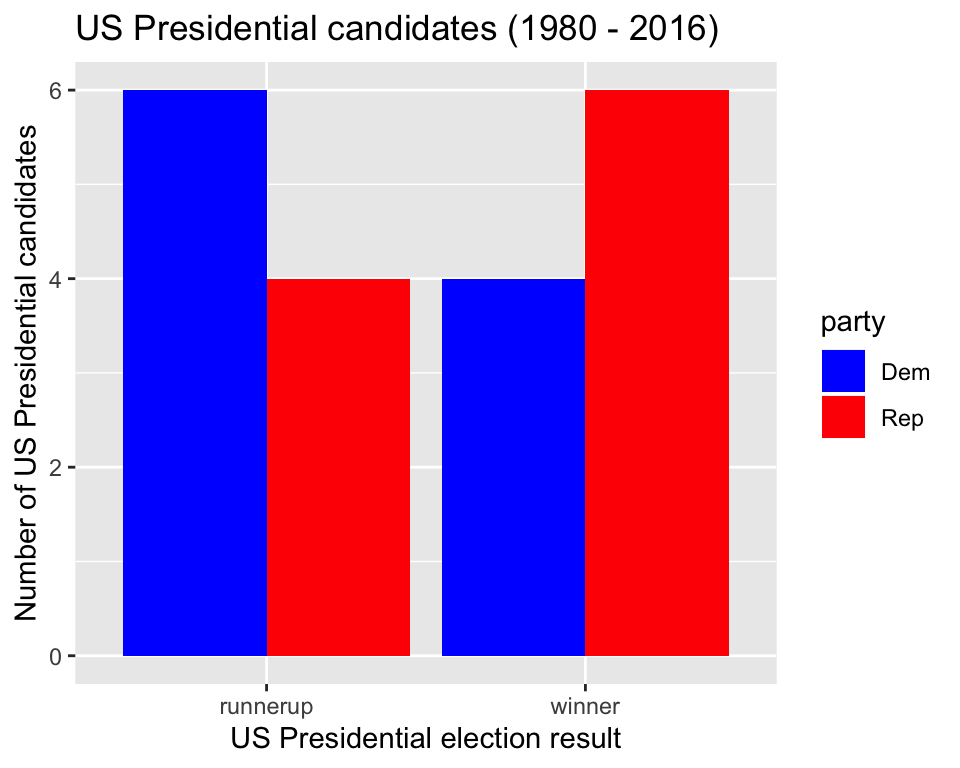
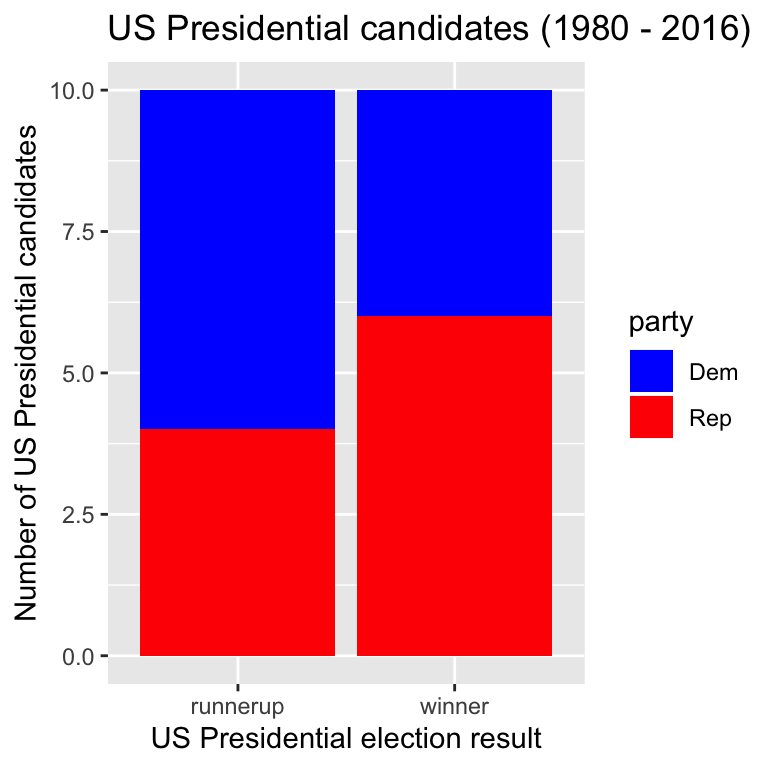
remainder of edits in #26

diff --git a/docs/wrangling.html b/docs/wrangling.html
@@ -416,10 +416,8 @@ project, it is well worth spending the time to get your data into a tidy format 
 </div>
 <div id="going-from-wide-to-long-or-tidy-using-gather" class="section level3">
 <h3><span class="header-section-number">3.4.3</span> Going from wide to long (or tidy!) using <code>gather</code></h3>
-<p>One common thing that often has to be done to get data into a tidy format is to gather columns so that each row is a single
-observation and each column is a single variable. Oftentimes, data does not come this way; while tidy data is a better
-organization structure for data analysis, it is not as intuitive for human readability and understanding. For example, the
-data below is not in a tidy format, but rather is in a very intuitive format for human understanding:</p>
+<p>One common thing that often has to be done to get data into a tidy format is to combine columns that are really part the same variable but currently stored in separate columns. To do this we can use the function <code>gather</code>. <code>gather</code> acts to combine columns, and thus makes the data frame narrower.</p>
+<p>Data is often stored in a wider, not tidy, format because this format is often more intuitive for human readability and understanding, and humans create data sets. An example of this is shown below:</p>
 <div class="sourceCode" id="cb1"><pre class="sourceCode r"><code class="sourceCode r"><a class="sourceLine" id="cb1-1" data-line-number="1"><span class="kw">library</span>(tidyverse)</a>
 <a class="sourceLine" id="cb1-2" data-line-number="2">hist_vote_wide &lt;-<span class="st"> </span><span class="kw">read_csv</span>(<span class="st">&quot;data/historical_vote_wide.csv&quot;</span>)</a>
 <a class="sourceLine" id="cb1-3" data-line-number="3">hist_vote_wide</a></code></pre></div>
@@ -577,12 +575,12 @@ political party the candidate belonged to (“party”):</p>
 <p>We can see that this data now satifies all 3 criteria, making it easier to analyze.
 For example, we could visualize the number of winning candidates for each party over this time span:</p>
 <div class="sourceCode" id="cb11"><pre class="sourceCode r"><code class="sourceCode r"><a class="sourceLine" id="cb11-1" data-line-number="1"><span class="kw">ggplot</span>(hist_vote_party_tidy, <span class="kw">aes</span>(<span class="dt">x =</span> result, <span class="dt">fill =</span> party)) <span class="op">+</span></a>
-<a class="sourceLine" id="cb11-2" data-line-number="2"><span class="st">  </span><span class="kw">geom_bar</span>(<span class="dt">position=</span><span class="kw">position_dodge</span>()) <span class="op">+</span></a>
+<a class="sourceLine" id="cb11-2" data-line-number="2"><span class="st">  </span><span class="kw">geom_bar</span>() <span class="op">+</span></a>
 <a class="sourceLine" id="cb11-3" data-line-number="3"><span class="st">  </span><span class="kw">scale_fill_manual</span>(<span class="dt">values=</span><span class="kw">c</span>(<span class="st">&quot;blue&quot;</span>, <span class="st">&quot;red&quot;</span>)) <span class="op">+</span></a>
 <a class="sourceLine" id="cb11-4" data-line-number="4"><span class="st">  </span><span class="kw">xlab</span>(<span class="st">&quot;US Presidential election result&quot;</span>) <span class="op">+</span></a>
 <a class="sourceLine" id="cb11-5" data-line-number="5"><span class="st">  </span><span class="kw">ylab</span>(<span class="st">&quot;Number of US Presidential candidates&quot;</span>) <span class="op">+</span></a>
 <a class="sourceLine" id="cb11-6" data-line-number="6"><span class="st">  </span><span class="kw">ggtitle</span>(<span class="st">&quot;US Presidential candidates (1980 - 2016)&quot;</span>) </a></code></pre></div>
-<p><img src="_main_files/figure-html/02-candidate-count-1.png" width="480" /></p>
+<p><img src="_main_files/figure-html/02-candidate-count-1.png" width="384" /></p>
 <p>From this visualization, we can see that between 1980 - 2016 (inclusive) the Republican party has
 won more US Presidential elections than the Democratic party.</p>
 </div>
@@ -601,18 +599,19 @@ a data frame <code>data</code>:</p>
 <li>filter for rows where another column, <code>other_col</code>, is more than 5, and</li>
 <li>select only the new column <code>new_col</code> for those rows.</li>
 </ol>
-<p>One way of doing this would be to <em>compose</em> the functions:</p>
-<pre><code>output &lt;- select(filter(mutate(data, new_col = old_col*2), other_col &gt; 5), new_col)</code></pre>
-<p>This is difficult to understand for multiple reasons. Functions compose (reading from left to right) in the <em>opposite order</em> in which
-they should be applied (above, <code>mutate</code> happens first, then <code>filter</code>, then <code>select</code>). It is also just a really long line of code
-to read in one go. Another option is to just write multiple lines of code, storing temporary objects as you go:</p>
+<p>One way of doing is to just write multiple lines of code, storing temporary objects as you go:</p>
 <pre><code>output_1 &lt;- mutate(data, new_col = old_col*2)
 output_2 &lt;- filter(output_1, other_col &gt; 5)
 output &lt;- select(output_2, new_col)</code></pre>
-<p>Code like this can also be difficult to understand. The reader may be tricked into thinking the named <code>output_1</code> and <code>output_2</code>
+<p>This is difficult to understand for multiple reasons. The reader may be tricked into thinking the named <code>output_1</code> and <code>output_2</code>
 objects are important for some reason, while they are just temporary intermediate computations. Further, the reader has to look
-through and find where <code>output_1</code> and <code>output_2</code> are used in each subsequent line. The <em>pipe operator</em> <code>%&gt;%</code> solves this problem, resulting
-in cleaner and easier-to-follow code. The below accomplishes the same thing as the previous two code blocks:</p>
+through and find where <code>output_1</code> and <code>output_2</code> are used in each subsequent line.</p>
+<p>Another option for doing this would be to <em>compose</em> the functions:</p>
+<pre><code>output &lt;- select(filter(mutate(data, new_col = old_col*2), other_col &gt; 5), new_col)</code></pre>
+<p>Code like this can also be difficult to understand. Functions compose (reading from left to right) in the <em>opposite order</em> in which
+they are computed by R (above, <code>mutate</code> happens first, then <code>filter</code>, then <code>select</code>). It is also just a really long line of code
+to read in one go.</p>
+<p>The <em>pipe operator</em> <code>%&gt;%</code> solves this problem, resulting in cleaner and easier-to-follow code. The below accomplishes the same thing as the previous two code blocks:</p>
 <pre><code>output &lt;- data %&gt;% 
             mutate(new_col = old_col*2) %&gt;%
             filter(other_col &gt; 5) %&gt;%
@@ -868,10 +867,12 @@ of a data frame; <code>map_*</code> functions can be used to apply functions to 
 </div>
 <div id="additional-readingsresources-1" class="section level2">
 <h2><span class="header-section-number">3.9</span> Additional readings/resources</h2>
-<p>Grolemund &amp; Wickham’s <a href="https://r4ds.had.co.nz/">R for Data Science</a> has a number of useful sections that provide additional information:
-- <a href="https://r4ds.had.co.nz/transform.html">Data transformation</a>
-- <a href="https://r4ds.had.co.nz/tidy-data.html">Tidy data</a>
-- <a href="https://r4ds.had.co.nz/iteration.html#the-map-functions">The <code>map_*</code> functions</a></p>
+<p>Grolemund &amp; Wickham’s <a href="https://r4ds.had.co.nz/">R for Data Science</a> has a number of useful sections that provide additional information:</p>
+<ul>
+<li><a href="https://r4ds.had.co.nz/transform.html">Data transformation</a></li>
+<li><a href="https://r4ds.had.co.nz/tidy-data.html">Tidy data</a></li>
+<li><a href="https://r4ds.had.co.nz/iteration.html#the-map-functions">The <code>map_*</code> functions</a></li>
+</ul>
 
 </div>
 </div>
